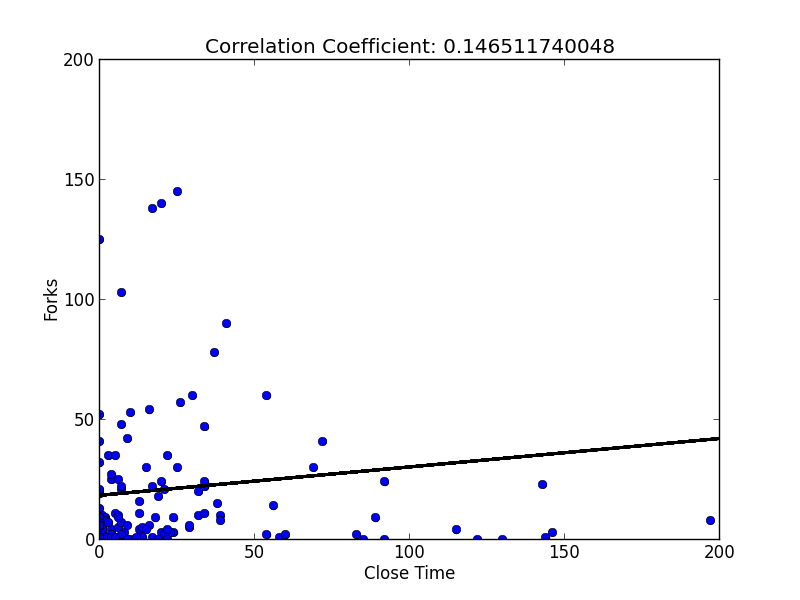
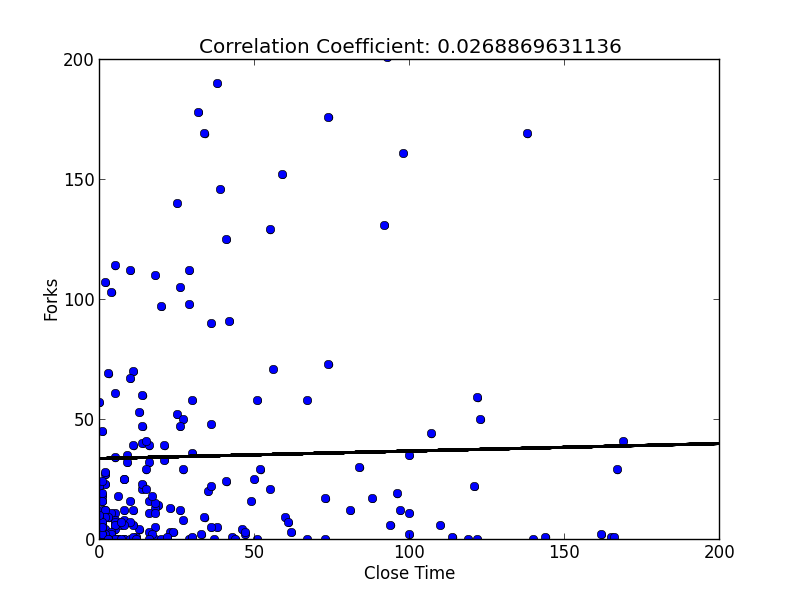
Updates to sql and paper.

diff --git a/code/plots.py b/code/plots.py
@@ -1,6 +1,6 @@
-from plotter import Histograph, ScatterPlot
+from plotter import Histograph, ScatterPlot, PieChart
 
-committers_query = '''select count(distinct committer) from github.commit c group by repository_id'''
+committers_query = '''select count(distinct committer) from commit c group by repository_id'''
 committers_histogram = Histograph(committers_query, "Committers", "Repositories", (1,25))
 committers_histogram.plot("committers_histogram")
 
@@ -11,28 +11,28 @@ from
     (select 
         count(*) as cnt, c1.repository_id
     from
-        github.commit c1
+        commit c1
     group by c1.repository_id) commits
         inner join
-    github.commit c1 ON c1.repository_id = commits.repository_id
+    commit c1 ON c1.repository_id = commits.repository_id
 group by c1.repository_id , c1.committer
 '''
 committers_percentage_histogram = Histograph(committers_percentage_query, "% Of Project Commits", "Committers")
 committers_percentage_histogram.plot("committers_percentage_histogram")
 
-issue_reporters_query = '''select count(distinct creator) from github.issue group by repository_id'''
+issue_reporters_query = '''select count(distinct creator) from issue group by repository_id'''
 issue_reporters_histogram = Histograph(issue_reporters_query, "Issue Reporters", "Repositories", (1,40))
 issue_reporters_histogram.plot("issue_reporters_histogram")
 
 issue_close_time_query = '''
-select cast(avg(datediff(close_date, open_date)) as unsigned) FROM github.issue issues 
+select cast(avg(datediff(close_date, open_date)) as unsigned) FROM issue issues 
 where issues.close_date is not null 
 group by repository_id
 '''
 issue_close_time_histogram = Histograph(issue_close_time_query, "Average Issue Close Time (Days)", "Repositories", (0,140))
 issue_close_time_histogram.plot("issue_close_time_histogram")
 
-watcher_forks_scatterplot_query = '''select watchers, forks from github.repository'''
+watcher_forks_scatterplot_query = '''select watchers, forks from repository'''
 watcher_forks_scatterplot = ScatterPlot(watcher_forks_scatterplot_query, "Watchers", "Forks", (0,1000), (0,150))
 print watcher_forks_scatterplot.plot("watcher_forks_scatterplot")
 
@@ -43,13 +43,13 @@ from
     (select 
         repository_id, count(distinct committer) as committers_count
     from
-        github.commit
+        commit
     group by repository_id) commits
         inner join
     (select 
         repository_id, count(distinct creator) as reporters_count
     FROM
-        github.issue
+        issue
     group by repository_id) issues ON issues.repository_id = commits.repository_id
 '''
 issue_reporters_committers_scatterplot = ScatterPlot(issue_reporters_committers_query, "Committers", "Issue Reoprters", (0,140), (0,140))
@@ -59,13 +59,13 @@ issue_close_time_forks_query = '''
 select 
     cast(issues.close_time as unsigned), repository.forks
 from
-    github.repository repository
+    repository repository
         inner join
     (select 
         avg(DATEDIFF(close_date, open_date)) as close_time,
             repository_id
     from
-        github.issue issue
+        issue issue
     where
         issue.close_date is not null
     group by repository_id) issues ON repository.id = issues.repository_id
@@ -73,3 +73,9 @@ group by repository_id
 '''
 issue_close_time_forks_scatterplot = ScatterPlot(issue_close_time_forks_query, "Close Time", "Forks", (0,200), (0,200))
 print issue_close_time_forks_scatterplot.plot("issue_close_time_forks_scatterplot")
+
+
+
+committers_percentage_pie_chart = PieChart(committers_percentage_query)
+committers_percentage_pie_chart.plot("committers_percentage_pie_chart")
+

diff --git a/paper/main.tex b/paper/main.tex
@@ -2,8 +2,10 @@
 \documentclass{proc}
 \usepackage{graphicx}
 \usepackage{mathtools}
+\usepackage{fixltx2e}
 \usepackage{algorithmicx}
 \usepackage{algpseudocode}
+\MakeRobust{\Call}
 \setlength\parindent{0pt}
 
 \title{
@@ -70,22 +72,29 @@ Data collection was done using the GitHub REST API\footnote{http://developer.git
 \State $i \gets i + 1$
 \State $word \gets random(word\_list)$
 \State $repos \gets git\_search(word)$
-\State $j \gets random(0...size(repos))$
+\State $j \gets \Call{random}{0... \Call{size}{repos}}$
 \State $repo \gets repos_j$
-\State \Call{process}{repo}
+\State \Call{store}{repo}
 \EndWhile
-\end{algorithmic}\footnote
+\end{algorithmic}
+
+The \textsc{store} function accepts as an input a given random repository. The purpose of this function is to persist the given repository to a database for further analysis.
 
 
-$\displaystyle\frac{\sum\limits_{i=1}^{n} f( \left\{{i_j,i_{j+1},...,i_{j+k}  }\right\} ) } {n} $.
+\begin{figure}
+\includegraphics[height=3in,width=3in]{images/er.png}
+\caption{GitHub Date Entity Relationship diagram}
+\end{figure}
 
+
+$\displaystyle\frac{\sum\limits_{i=1}^{n} f(  S_{ij} ) } {n} $.
 
 \section{Results}
+
 
 \subsection{Summary Statistics}
 \begin{table}[!ht]
 \begin{center}
-\caption{GitHub Summary Statistics}
 \begin{tabular}{rrrrrrr}
 \hline
 Variable & Mean & Min & Max & Std. Dev. \\
@@ -94,29 +103,49 @@ Variable & Mean & Min & Max & Std. Dev. \\
 \hline
 \end{tabular}
 N = 100 Repositories
+\caption{GitHub Summary Statistics}
 \end{center}
 \end{table}
 
 
 \subsection{Hypotheses}
 \emph{Hypothesis 1: As the number of Watchers increase, the number of Repository Forks will increase.}\\
+\begin{figure}
 \includegraphics[height=3in,width=3in]{images/watcher_forks_scatterplot.png}
+\caption{Repostitory watchers and forks}
+\end{figure}
 
 \emph{Hypothesis 2: As the number Repository Forks increase, the Issue Resolution Time will decrease.}\\
+\begin{figure}
 \includegraphics[height=3in,width=3in]{images/issue_close_time_forks_scatterplot.png}
+\caption{Repostitory issue close time and number of forks}
+\end{figure}
 
 \emph{Hypothesis 3: There will be more Issue Reporters than Committers by an order of magnitude.}\\
+\begin{figure}
 \includegraphics[height=3in,width=3in]{images/issue_reporters_histogram.png}
+\caption{Repostitory issue reporters}
+\end{figure}
+\begin{figure}
 \includegraphics[height=3in,width=3in]{images/committers_histogram.png}
+\caption{Repostitory committers}
+\end{figure}
+\begin{figure}
 \includegraphics[height=3in,width=3in]{images/issue_reporters_committers_scatterplot.png}
+\caption{Repostitory issue reporters and committers}
+\end{figure}
 
 \subsection{Research Questions}
 \emph{Research Question 1: Are GitHub projects primarily focused around a small set of core Committers?}\\
+\begin{figure}
+\includegraphics[height=3in,width=3in]{images/committers_percentage_pie_chart.png}
+\caption{Individual committer commit percentage per repository}
+\end{figure}
 
 \emph{Research Question 2: What is the GitHub Philosophy?}\\
 
 \emph{Research Question 3: Can GitHub be used for more that code artifacts?}\\
-As part of the OMG standardization process, the CTS2 Specification used GitHub issue tracker to track specification changes.
+As part of the OMG\textregistered standardization process, the CTS2 Specification used GitHub issue tracker to track specification changes.
 
 \section{Acknowledgments}
 

diff --git a/code/plotter.py b/code/plotter.py
@@ -18,15 +18,27 @@ class PieChart:
 
 		result = cursor.fetchall()
 
-		x = []
-		y = []
+		ranges = {'0-5':0,'5-10':0,'10-50':0,'50-95':0,'95-100':0}
 
 		for record in result:
-			x.append(record[0])
+			percentage = record[0]
+			if 0 <= percentage < 5:
+				ranges['0-5'] += 1
+			elif 5 <= percentage < 10:
+				ranges['5-10'] += 1
+			elif 10 <= percentage < 50:
+				ranges['10-50'] += 1
+			elif 50 <= percentage < 95:
+				ranges['50-95'] += 1
+			elif 95 <= percentage <= 100:
+				ranges['95-100'] += 1
 
-		plt.pie([4,4,10,4,4], autopct='%.2f')
+		fig = plt.figure()
+		plt.pie(ranges.values(), labels=[key + "%" for key in ranges.keys()], autopct='%.2f%%', shadow=True)
 
-		plt.show()
+		F = gcf()
+		F.savefig("../paper/images/"+filename+".png")
+		plt.close(fig)
 
 class ScatterPlot:
 	def __init__(self, sql, xlabel, ylabel, xrange=None, yrange=None):

diff --git a/paper/summary_statistics.tex b/paper/summary_statistics.tex
@@ -1,7 +1,7 @@
-Issues  &  30.93  &  1  &  860  &  83.18  \\
-Commits  &  249.3  &  1  &  45379  &  1700.01  \\
-Closed Issues  &  26.6  &  1  &  837  &  77.56  \\
-Open Issues  &  11.37  &  1  &  316  &  31.63  \\
-Issue Close Time  &  26.48  &  0  &  503  &  56.54  \\
-Issue Creators  &  10.61  &  1  &  128  &  22.29  \\
-Committers  &  4.8  &  1  &  405  &  16.39  \\
+Issues  &  48.38  &  1  &  1594  &  146.43  \\
+Commits  &  169.29  &  1  &  49325  &  1578.86  \\
+Closed Issues  &  45.05  &  1  &  1569  &  135.53  \\
+Open Issues  &  12.71  &  1  &  430  &  33.66  \\
+Issue Close Time  &  32.76  &  0  &  1123  &  82.1  \\
+Issue Creators  &  20.93  &  1  &  712  &  58.96  \\
+Committers  &  4.0  &  1  &  225  &  12.93  \\

diff --git a/code/research.py b/code/research.py
@@ -11,7 +11,7 @@ from sqlalchemy import Integer, String, DateTime
 
 from config import *
  
-engine = create_engine('mysql://'+db_username+'@'+db_location+':'+db_port+'/'+db_database, echo=False)
+engine = create_engine('mysql://'+db_username+'@'+db_host+':'+str(db_port)+'/'+db_database, echo=False)
  
 metadata = MetaData(bind=engine)
  
@@ -135,4 +135,4 @@ def crawl(sample_size):
 			print e
 
 
-crawl(313)
+crawl(999)
